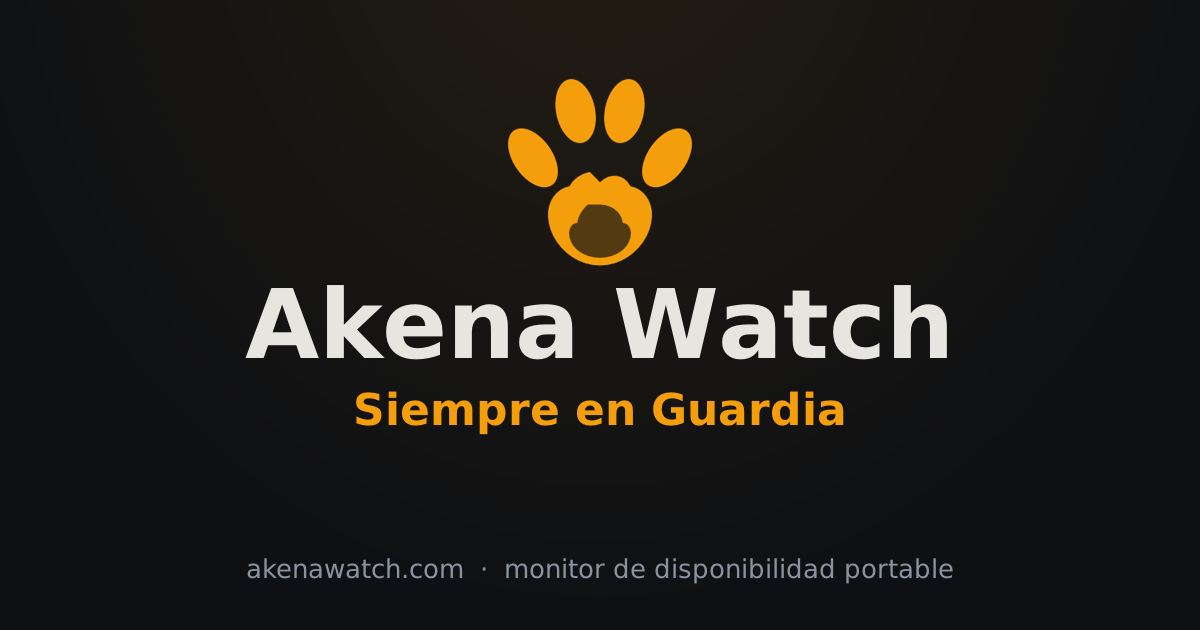
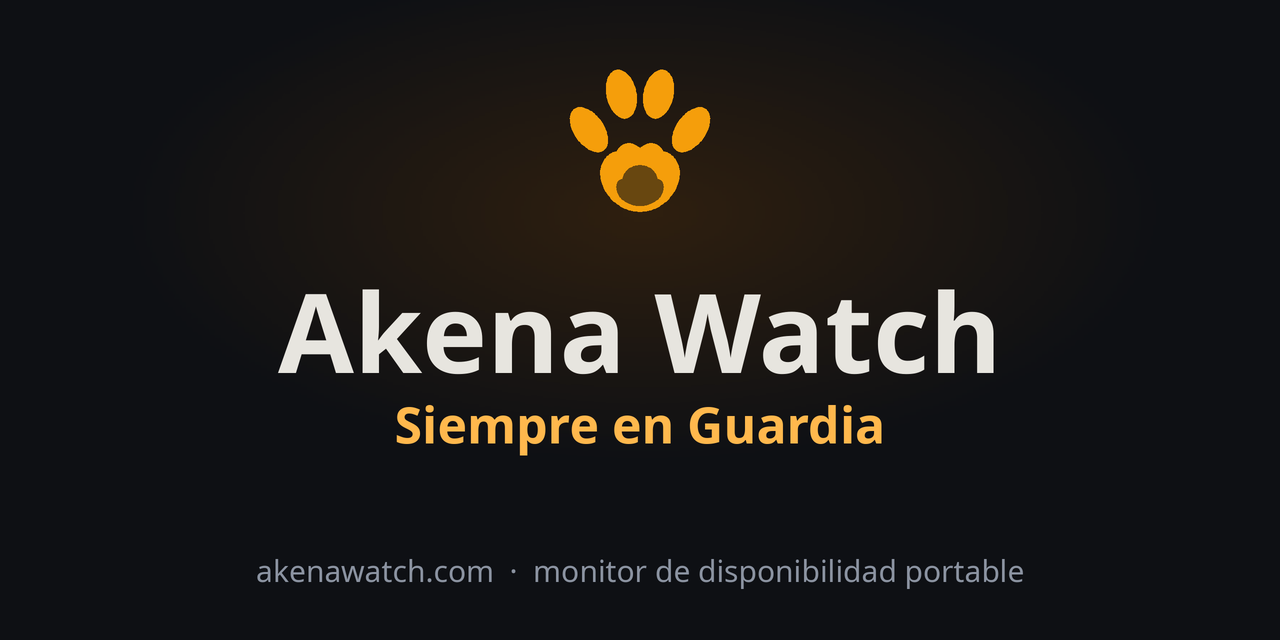
Repo: Dependabot, política de seguridad, permisos de CI, instalador sin clonar y social preview
- .github/dependabot.yml: módulos Go y acciones de GitHub semanales y agrupados,
  y el worker de Cloudflare mensual. Los cambios de versión mayor llegan sueltos
  para revisarlos uno a uno.
- .github/SECURITY.md: política de seguridad apoyada en el reporte privado de
  vulnerabilidades de GitHub (sin publicar una dirección de correo), con el
  alcance y el compromiso de respuesta.
- ci.yml: bloque permissions mínimo (contents: read). pages.yml y release.yml ya
  lo tenían.
- scripts/install.sh: si no hay AKENA_REPO y el remoto de git no es un repo
  akena-watch, usa el repositorio oficial. Antes, al ejecutarlo con `curl | sh`
  desde otro proyecto, tomaba el remoto de ese proyecto y fallaba (o instalaba
  desde donde no debía). AKENA_REPO sigue mandando, así que los forks funcionan.
- README: bloque «Instalación en 30 segundos» al principio, con el binario directo
  y el instalador, antes del índice.
- web/assets/og-image.png: regenerada a 1280x640 —el tamaño que recomienda GitHub
  para el social preview— con el mismo diseño, y metadatos og:image ajustados.

Changed region(s): [[0.185, 0.4524, 0.8017, 0.7238], [0.4008, 0.0905, 0.5858, 0.4222], [0.185, 0.8746, 0.8017, 0.9349]]

diff --git a/web/index.html b/web/index.html
@@ -18,8 +18,8 @@
   <meta property="og:description" content="Monitor de disponibilidad portable: un solo binario, SQLite embebida, cero dependencias. Corre en cualquier Linux, CloudPanel 2 y Cloudflare Containers. Siempre en Guardia.">
   <meta property="og:url" content="https://akenawatch.com/">
   <meta property="og:image" content="https://akenawatch.com/assets/og-image.png">
-  <meta property="og:image:width" content="1200">
-  <meta property="og:image:height" content="630">
+  <meta property="og:image:width" content="1280">
+  <meta property="og:image:height" content="640">
   <meta property="og:image:alt" content="Akena Watch — Siempre en Guardia: la pata de perro ámbar sobre fondo oscuro">
   <meta property="og:locale" content="es_ES">
 

diff --git a/.github/SECURITY.md b/.github/SECURITY.md
@@ -1,0 +1,63 @@
+# Política de seguridad
+
+## Versiones soportadas
+
+Solo la **última versión publicada** recibe correcciones de seguridad. Akena
+Watch es un binario autocontenido: actualizar es descargar el binario nuevo (o
+volver a ejecutar el instalador) y reiniciar el proceso.
+
+| Versión | Soporte |
+| --- | --- |
+| 1.2.x | ✅ |
+| anteriores | ❌ |
+
+## Cómo reportar una vulnerabilidad
+
+**No abras un issue público.** Usa el **reporte privado de vulnerabilidades** de
+GitHub:
+
+1. Abre la pestaña [Security](https://github.com/xic17/akena-watch/security).
+2. Pulsa **Report a vulnerability**.
+3. Cuéntanos el problema con el mayor detalle posible.
+
+Conviene incluir:
+
+- Versión de Akena Watch (`/api/version` o el pie de página) y sistema operativo.
+- Pasos para reproducirlo (peticiones, comandos, capturas).
+- El impacto que crees que tiene y, si lo hay, una prueba de concepto mínima.
+
+## Compromiso de respuesta
+
+- Acuse de recibo en un plazo orientativo de **3 días laborables**.
+- Confirmación y evaluación del impacto.
+- Corrección en una versión nueva, con su entrada en el `CHANGELOG` y el crédito
+  correspondiente si lo deseas, una vez publicada.
+
+## Alcance
+
+Dentro del alcance, por ejemplo:
+
+- Saltarse la autenticación o los permisos (leer o modificar monitores, canales o
+  datos de otra persona).
+- Inyección (SQL, comandos, XSS) o ejecución remota de código.
+- Exposición de credenciales, tokens de canales o datos personales.
+- Cualquier forma de eludir el límite de intentos de acceso.
+
+Fuera del alcance:
+
+- Las peticiones salientes a direcciones internas desde monitores y herramientas:
+  **es parte del diseño** (un monitor puede vigilar tu propia red). Si encuentras
+  la forma de usarlo **sin** una sesión válida, eso sí es un hallazgo.
+- Denegación de servicio contra tu propia instancia.
+- Resultados de escáneres automáticos sin explicación de impacto ni prueba de
+  concepto.
+- Ingeniería social.
+
+## Buenas prácticas para quien lo despliega
+
+- Ejecuta el binario con un **usuario de sistema sin privilegios** y escucha solo
+  en `127.0.0.1` cuando lo pongas detrás de un proxy (ver el README).
+- No expongas la instancia sin TLS ni con una contraseña débil: en el primer
+  arranque se crea el administrador y, desde ahí, todo manda.
+- Protege el directorio de datos: ahí viven la base de datos SQLite y las
+  credenciales de los canales de alerta.

diff --git a/README.md b/README.md
@@ -20,6 +20,32 @@ falla. El mismo ejecutable corre en Linux plano, detrás de **CloudPanel 2** o e
 
 ---
 
+## Instalación en 30 segundos
+
+```sh
+# 1) descarga el binario de la última release (Linux x86_64)
+curl -fsSL -o akena-watch https://github.com/xic17/akena-watch/releases/latest/download/akena-watch-linux-amd64
+chmod +x akena-watch
+
+# 2) ejecútalo (datos en ./data, puerto 8080)
+./akena-watch
+```
+
+Abre <http://localhost:8080>: el asistente te pedirá crear el administrador.
+
+O con el instalador, que detecta la plataforma, **verifica el `SHA256SUMS`** y lo
+deja listo en `/usr/local/bin`:
+
+```sh
+curl -fsSL https://raw.githubusercontent.com/xic17/akena-watch/main/scripts/install.sh | sh
+```
+
+¿ARM o macOS? En la misma release están `akena-watch-linux-arm64`,
+`akena-watch-darwin-amd64` y `akena-watch-darwin-arm64`. ¿systemd, CloudPanel 2 o
+contenedor? → [Despliegue](#despliegue) · Sitio y binarios: <https://akenawatch.com>
+
+---
+
 ## Contenido
 
 1. [Características](#características)
